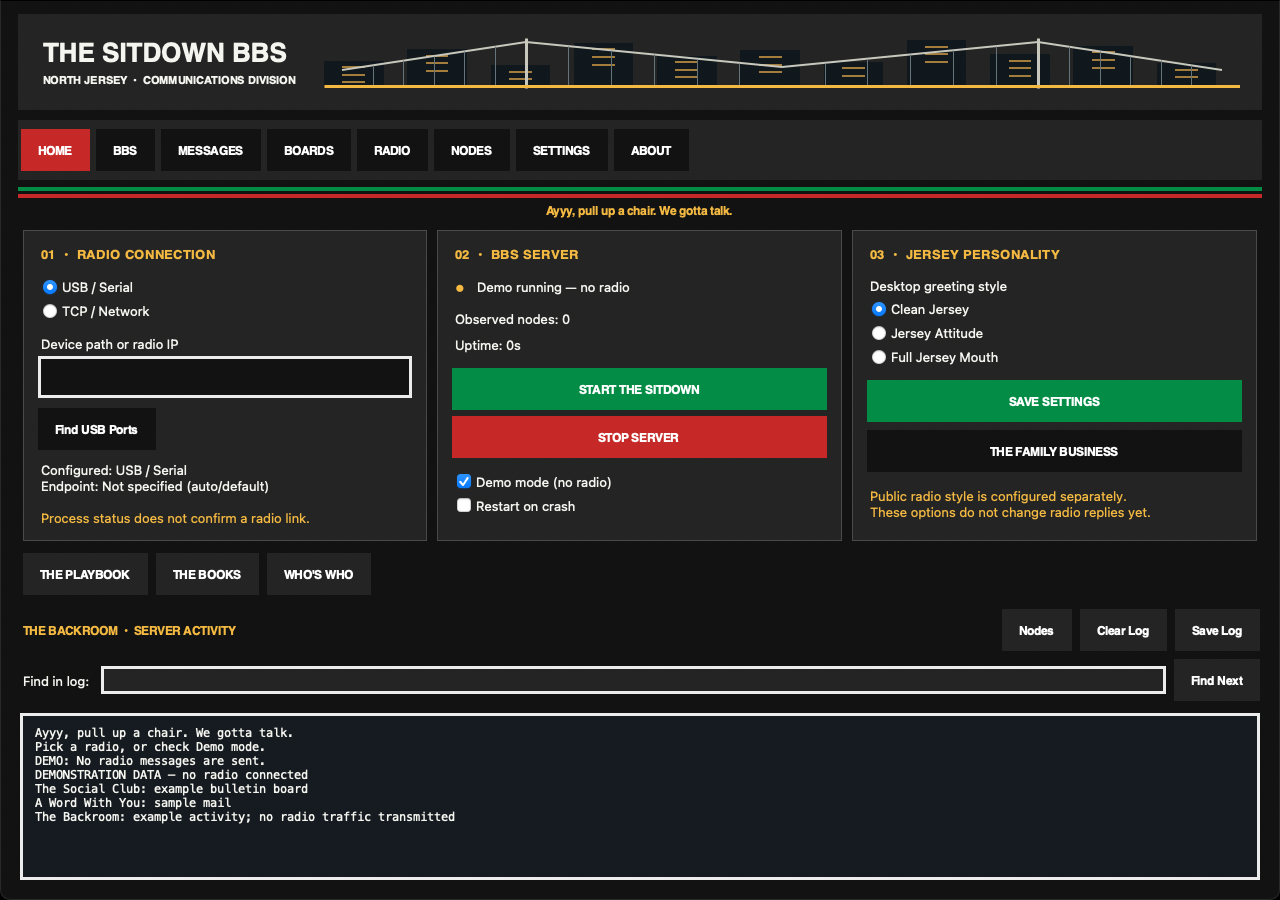
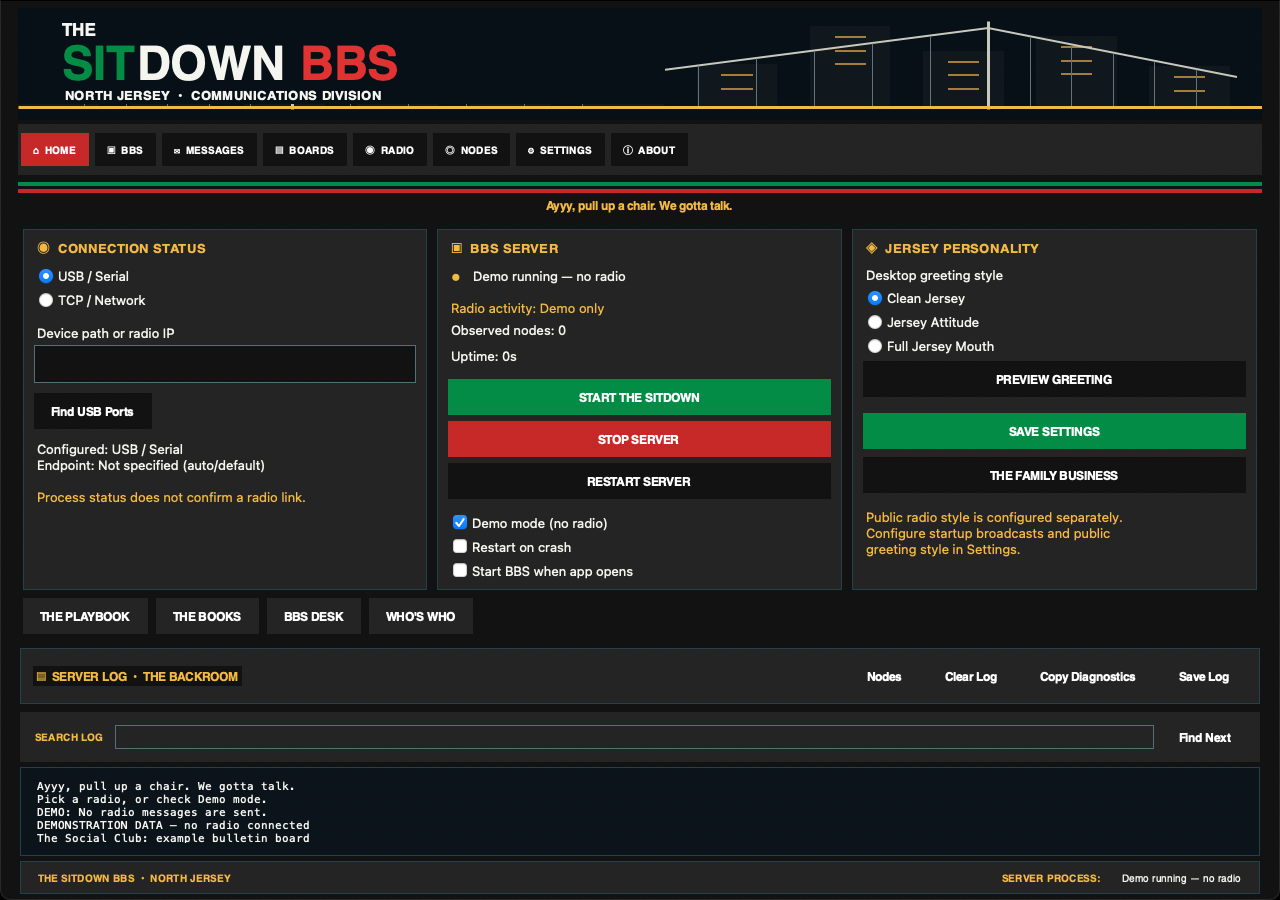
Publish verified demo screenshots and retry transient DMG contention

diff --git a/README.md b/README.md
@@ -106,6 +106,15 @@ The current desktop dashboard uses Italian red and green accents, dark charcoal 
 
 ![The Sitdown BBS desktop dashboard in demo mode — demonstration data, no radio connection](docs/images/desktop-preview-demo.png)
 
+<details>
+<summary>Operator desks, full node lookup, and opt-in settings (demo screenshots)</summary>
+
+![Announcement desk — demonstration only](docs/images/bbs-preview-demo.png)
+![Full node lookup — demonstration node](docs/images/nodes-preview-demo.png)
+![Startup broadcast settings — disabled by default](docs/images/settings-preview-demo.png)
+
+</details>
+
 [Desktop screenshot automation](https://github.com/BaconDisk22/The-Sitdown-BBS/actions/workflows/readme-desktop-screenshot.yml) · [Intel Mac releases](https://github.com/BaconDisk22/The-Sitdown-BBS/releases)
 
 ### 📦 Download the latest Intel Mac build

diff --git a/docs/JERSEY_DESK.md b/docs/JERSEY_DESK.md
@@ -60,7 +60,8 @@ silhouette. Screenshots are captured from demo mode and labeled accordingly.
 They are not evidence of a connected radio.
 
 CI runs unit tests, real Tk layout/navigation checks on Intel macOS, captures the
-app, and packages an x86_64 app/DMG. These checks do not prove a physical radio
+app, and packages an x86_64 app/DMG. It also launches the packaged app in isolated
+demo mode to verify bundled imports and Tk pages without a radio. These checks do not prove a physical radio
 works with the packaged app. Before a release, test the actual DMG on an Intel Mac:
 launch it, connect to your TCP Meshtastic radio, send/receive a DM, read/write a
 board message, restart/disconnect, and verify each opt-in feature independently.
